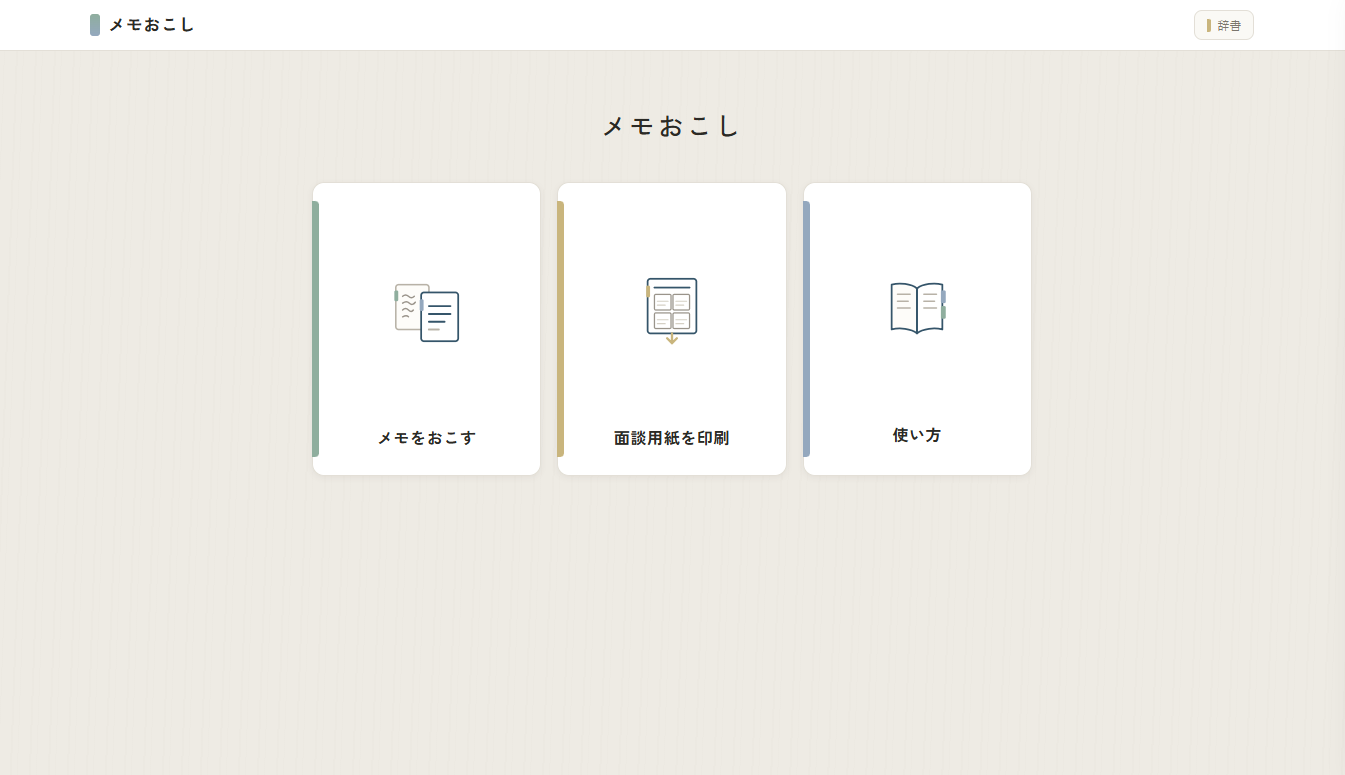
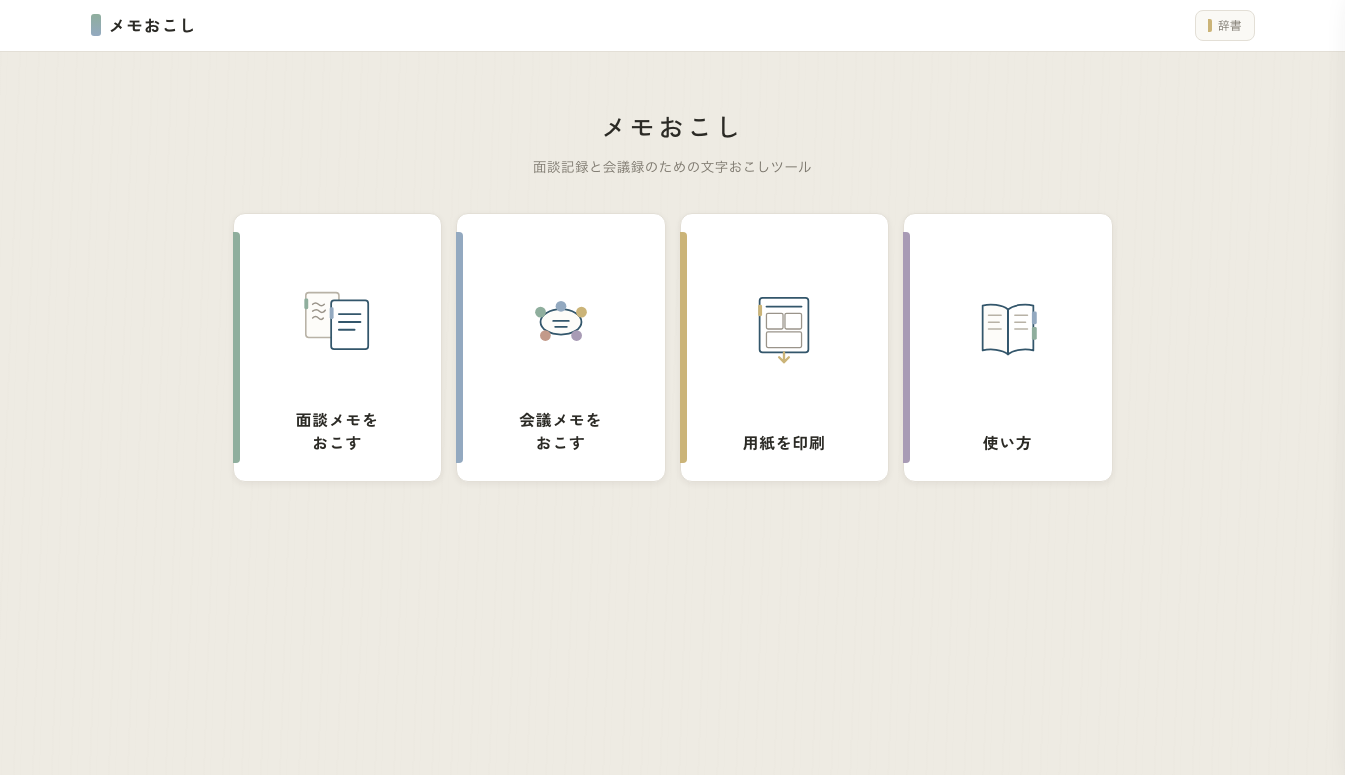
P13: 使い方ページの画面写真 01・02 を撮り直し、撮影の道具をリポジトリに置く
01-home.png はカード3枚のまま、02-sheet-maker.png は面談と会議の切り替えと
並べ替えのつまみが無く、押印欄が写っていた。

- docs/assets/help/shoot.mjs: ヘッドレス Chrome を DevTools の口で操作して撮る
  （Node の標準機能だけ・npm 依存なし）。1345×775・倍率1・新しいプロファイル・
  字の読み込みと動きを待ち、ホバーとフォーカスを外して撮る。原本と配信の両方に
  書いて md5 を出す。終わり方にかかわらず Chrome を閉じ（閉じなければ止め）、
  プロファイルを消す。写真は SHOTS に1件ずつ足せる（今回は 01・02 だけ）
- 本番と同じビルド（next start）で撮った。開発サーバーでは Next の開発用の印が写る
- 02 はホームの「用紙を印刷」を押してたどり、面談を選んだ既定の状態で撮った
- ファイル名はそのまま（HELP_SHOTS に触らない）。about-copy の w/h と alt を直し、
  控え（tests/about.test.mts）に alt・寸法・撮影の道具の検査を足した
- README の表と撮り直し方を書き足した

同じ手順で2回撮って md5 が一致（再現できる）。テスト 197→198件通過。

Changed region(s): [[0.1561, 0.1548, 0.8431, 0.6194], [0.0937, 0.0, 0.1249, 0.0619], [0.9056, 0.031, 0.9368, 0.0619]]

diff --git a/lib/about-copy.ts b/lib/about-copy.ts
@@ -15,6 +15,7 @@
 //   （違うのは追加項目が無いことだけ）。実装と突き合わせて設計側に差し戻し、両方に効く文へ直した。
 // [DECISION 2026-09-23] 押印欄を用紙から完成形（Word・PDF）へ移したので、用紙の手順3から押印欄を外し、
 //   出力の手順2に「1ページ目の右上に押印欄が付く」を足した（P12・設計側の文面）。
+// [DECISION 2026-09-23] 画面写真 01・02 を撮り直した（P13）。撮り方は docs/assets/help/shoot.mjs（寸法 1345×775・倍率1）。
 //
 // [DECISION 2026-09-09] 文の作法（一般的な業務アプリのヘルプの調子に合わせる）:
 //   - 一文を短くする。当たり前のことは書かない
@@ -84,7 +85,7 @@ export const ABOUT = {
         {
           n: "1",
           h: "ホームで「用紙を印刷」を選ぶ",
-          shots: [S("01-home.png", "ホーム画面。カードが3枚並んでいる", 1345, 775)],
+          shots: [S("01-home.png", "ホーム画面。カードが4枚並んでいる", 1345, 775)],
         },
         {
           n: "2",
@@ -102,7 +103,7 @@ export const ABOUT = {
               tx: "用紙の最後に必ず付きます。どの項目にも当てはまらない話を書けます。書いた内容は項目に振り分けられ、当てはまらないものは確認画面の「拾いきれなかった内容」に出ます。",
             },
           ],
-          shots: [S("02-sheet-maker.png", "用紙を作る画面。左に項目のつまみ、右に用紙の見本", 1340, 772)],
+          shots: [S("02-sheet-maker.png", "用紙を作る画面。上に面談と会議の切り替え、左に項目の一覧、右に用紙の見本", 1345, 775)],
         },
         {
           n: "3",

diff --git a/docs/assets/help/README.md b/docs/assets/help/README.md
@@ -1,6 +1,7 @@
 # 使い方ページ（/about）用のスクリーンショット
 
-2026-09-11に設計側が撮影・提供したもの。**無加工**でそのまま置いてある（md5一致を確認済み）。
+03〜12 は 2026-09-11 に設計側が撮影・提供したもの。01・02 は 2026-09-23 に `shoot.mjs` で撮り直した（Mac のヘッドレス Chrome・字面はヒラギノ）。
+どれも**無加工**でそのまま置いてある（原本と配信の md5 一致を確認済み）。
 番号は使い方ページで登場する順。
 
 ⚠ **写っている面談メモはすべて生成したダミーで、実在の利用者情報は含まない**（2026-09-11・設計側が確認）。
@@ -9,8 +10,8 @@
 
 | ファイル | 画面 |
 |---|---|
-| 01-home.png | ホーム（3枚のカード） |
-| 02-sheet-maker.png | 面談用紙を作る（左のトグル＋右の見本） |
+| 01-home.png | ホーム（4枚のカードと題の下の一文） |
+| 02-sheet-maker.png | 用紙を作る（面談を選んだ既定の状態。上に面談／会議の切り替え・左に項目のスイッチとつまみ・右に見本） |
 | 03-intake-empty.png | 1 取り込み・空の状態 |
 | 04-intake-loaded.png | 1 取り込み・1枚入れた状態 |
 | 05-mask.png | 2 伏せる（5か所を塗った状態） |
@@ -21,3 +22,6 @@
 | 10-spill-picker.png | 4 確認・こぼれの移動先＋AIの気づき |
 | 11-output.png | 5 出力（転記用テキスト） |
 | 12-vocab.png | 辞書（事業所の言葉） |
+
+**撮り直し方**: 本番と同じビルドを `npm run build && npm run start -- -p 3211` で立ち上げ、`node docs/assets/help/shoot.mjs [ファイル名…]` を実行する
+（1345×775・倍率1で撮り、この置き場所と `public/help/` の両方に書く。撮れる写真と画面のたどり方は `shoot.mjs` の `SHOTS` に1件ずつ足す）。
